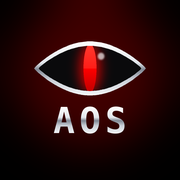
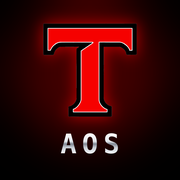
Red-Tigers-T als Cursor im Header und im App-Symbol (mit Erlaubnis des Vereins)
Claude-Session: https://claude.ai/code/session_01UpkBZMUu6Uj98YywTxktUF

Changed region(s): [[0.1944, 0.0833, 0.8056, 0.8611]]

diff --git a/index.html b/index.html
@@ -4,8 +4,8 @@
 <meta charset="utf-8">
 <meta name="viewport" content="width=device-width, initial-scale=1, viewport-fit=cover">
 <link rel="manifest" href="manifest.webmanifest">
-<link rel="apple-touch-icon" href="apple-touch-icon.png?v=4">
-<link rel="icon" type="image/png" sizes="192x192" href="icon-192.png?v=4">
+<link rel="apple-touch-icon" href="apple-touch-icon.png?v=5">
+<link rel="icon" type="image/png" sizes="192x192" href="icon-192.png?v=5">
 <meta name="theme-color" content="#000000">
 <meta name="apple-mobile-web-app-capable" content="yes">
 <meta name="mobile-web-app-capable" content="yes">
@@ -503,7 +503,7 @@ nav.tabs button[aria-current="page"],nav.tabs button[aria-current="page"]:not(.p
 /* Marke im Kopf: Chrom-AOS mit rotem Cursor wie das App-Symbol */
 .brand{display:flex;align-items:center;gap:0;letter-spacing:0;line-height:1}
 .brand .b-word{font-weight:800;font-size:1.25rem;letter-spacing:.14em;background:linear-gradient(180deg,#fff 0%,#e3e7ec 40%,#7f8692 52%,#c9ced6 70%,#f5f7f9 100%);-webkit-background-clip:text;background-clip:text;color:transparent;filter:drop-shadow(0 1px 0 rgba(0,0,0,.6))}
-.brand .b-cur{display:inline-block;width:.55rem;height:1.05rem;margin-left:2px;background:linear-gradient(180deg,#ff3b30,#c00000);box-shadow:0 0 10px rgba(246,1,0,.6);border-radius:1px;animation:bcur 1.2s steps(1) infinite}
+.brand .b-cur{display:inline-block;width:1.15rem;height:1.15rem;margin-left:4px;background:url('img/t.png?v=1') center/contain no-repeat;filter:drop-shadow(0 0 6px rgba(246,1,0,.55));animation:bcur 1.2s steps(1) infinite}
 .brand small{display:block!important;margin-left:10px;padding-left:10px;border-left:1px solid rgba(255,255,255,.18);font-size:.56rem;letter-spacing:.2em;text-transform:uppercase;color:var(--muted);font-weight:500;line-height:1.3;text-align:left}
 .brand small span{display:block;white-space:nowrap}
 @keyframes bcur{50%{opacity:.25}}

diff --git a/sw.js b/sw.js
@@ -1,7 +1,7 @@
 /* AOS Service Worker – speichert nur die App-Dateien für den Offline-Start.
    Trainingsdaten laufen nicht über den Service Worker (Anfragen an api.github.com werden nicht zwischengespeichert). */
-const CACHE = 'aos-572c98872883';
-const FILES = ['./', './index.html', './manifest.webmanifest', './apple-touch-icon.png', './icon-192.png', './icon-512.png', './icon-maskable-512.png', './img/tiger.png?v=1'];
+const CACHE = 'aos-430c2d2736ce';
+const FILES = ['./', './index.html', './manifest.webmanifest', './apple-touch-icon.png', './icon-192.png', './icon-512.png', './icon-maskable-512.png', './img/tiger.png?v=1', './img/t.png?v=1'];
 
 self.addEventListener('install', e => {
   // cache:'reload' umgeht den Browser-Cache, damit wirklich die neue Version gespeichert wird
